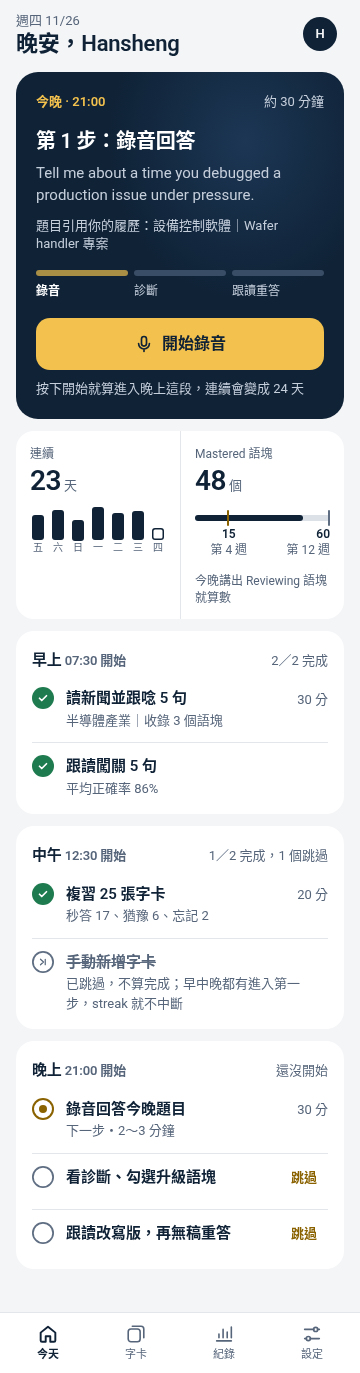
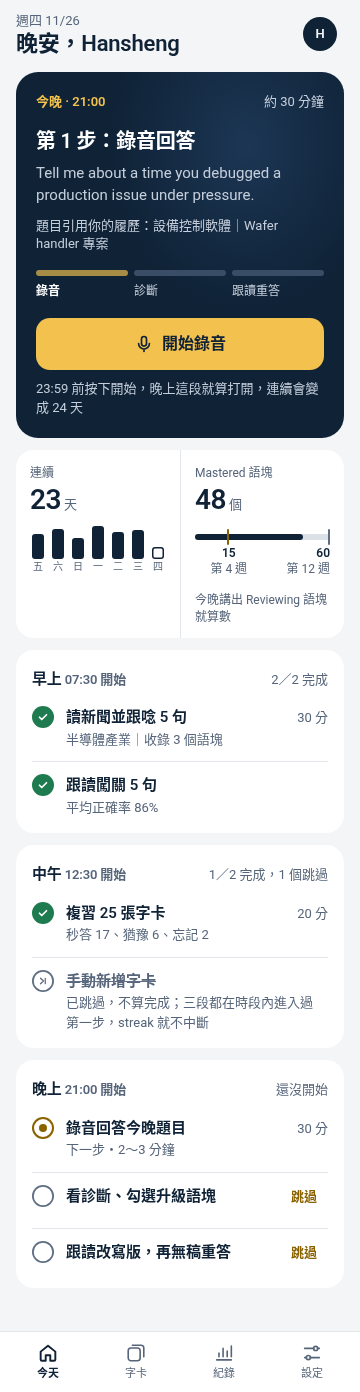
[Designer] D-003 D2 第 2 輪：streak 時段範圍依 PRD v1.4（PR #56）、Q-34 註明已寫回 AC-15

diff --git a/docs/design/prototype/screens/index.html b/docs/design/prototype/screens/index.html
@@ -50,13 +50,13 @@
     <p class="hero-cite t-callout">題目引用你的履歷：設備控制軟體｜Wafer handler 專案</p>
     <div class="segs" role="img" aria-label="晚上 3 步，正在第 1 步"><i class="cur"></i><i></i><i></i></div>
     <div class="seglab" aria-hidden="true"><span class="on">錄音</span><span>診斷</span><span>跟讀重答</span></div>
-    <div class="hero-act"><a class="btn btn-gold btn-lg" href="evening.html"><svg width="20" height="20" viewBox="0 0 24 24" fill="none" stroke="currentColor" stroke-width="2" stroke-linecap="round" stroke-linejoin="round" aria-hidden="true"><rect x="9" y="3" width="6" height="11.5" rx="3"/><path d="M5.5 11.5a6.5 6.5 0 0 0 13 0M12 18v3"/></svg>開始錄音<kbd>R</kbd></a><span class="t-callout sub">按下開始就算進入晚上這段，連續會變成 24 天</span></div>
+    <div class="hero-act"><a class="btn btn-gold btn-lg" href="evening.html"><svg width="20" height="20" viewBox="0 0 24 24" fill="none" stroke="currentColor" stroke-width="2" stroke-linecap="round" stroke-linejoin="round" aria-hidden="true"><rect x="9" y="3" width="6" height="11.5" rx="3"/><path d="M5.5 11.5a6.5 6.5 0 0 0 13 0M12 18v3"/></svg>開始錄音<kbd>R</kbd></a><span class="t-callout sub">23:59 前按下開始，晚上這段就算打開，連續會變成 24 天</span></div>
   </section>
   <section class="panel pair" aria-label="累積">
     <div class="stat"><p class="k">連續</p><p class="v">23<small>天</small></p><div class="spark" role="img" aria-label="近 7 天練習分鐘，今天進行中"><span style="--h:0.750" class=""><i></i><em>五</em></span><span style="--h:0.917" class=""><i></i><em>六</em></span><span style="--h:0.625" class=""><i></i><em>日</em></span><span style="--h:1.000" class=""><i></i><em>一</em></span><span style="--h:0.833" class=""><i></i><em>二</em></span><span style="--h:0.875" class=""><i></i><em>三</em></span><span style="--h:0.375" class="td"><i></i><em>四</em></span></div></div>
     <div class="stat"><p class="k">Mastered 語塊</p><p class="v">48<small>個</small></p><div class="m2" role="img" aria-label="Mastered 48 個；目標：第 4 週 15 個（已達成）、第 12 週 60 個（還差 12 個）"><div class="meter"><i style="width:80.0%"></i><b style="--at:.25" class="hit"></b><b style="--at:1" class=""></b></div><div class="m2-lab" aria-hidden="true"><span style="--at:.25"><b class="num">15</b>第 4 週</span><span style="--at:1"><b class="num">60</b>第 12 週</span></div></div><p class="t-caption muted msnote">今晚講出 Reviewing 語塊就算數</p></div>
   </section>
-  <div class="slots"><section class="panel flush slot" aria-labelledby="s-早上"><div class="slot-h"><h3 id="s-早上">早上<span class="t-callout muted num"> 07:30 開始</span></h3><span>2／2 完成</span></div><ul class="list"><li class="item"><span class="dot ok"><svg width="12" height="12" viewBox="0 0 24 24" fill="none" stroke="currentColor" stroke-width="3.4" stroke-linecap="round" stroke-linejoin="round" aria-hidden="true"><path d="M5 12.5l4.5 4.5L19 7.5"/></svg></span><div><span class="tt">讀新聞並跟唸 5 句</span><span class="meta">半導體產業｜收錄 3 個語塊</span></div><span class="end">30 分</span><a class="cover" href="news.html" aria-label="讀新聞並跟唸 5 句"></a></li><li class="item"><span class="dot ok"><svg width="12" height="12" viewBox="0 0 24 24" fill="none" stroke="currentColor" stroke-width="3.4" stroke-linecap="round" stroke-linejoin="round" aria-hidden="true"><path d="M5 12.5l4.5 4.5L19 7.5"/></svg></span><div><span class="tt">跟讀闖關 5 句</span><span class="meta">平均正確率 86%</span></div><span class="end"></span><a class="cover" href="shadow.html" aria-label="跟讀闖關 5 句"></a></li></ul></section><section class="panel flush slot" aria-labelledby="s-中午"><div class="slot-h"><h3 id="s-中午">中午<span class="t-callout muted num"> 12:30 開始</span></h3><span>1／2 完成，1 個跳過</span></div><ul class="list"><li class="item"><span class="dot ok"><svg width="12" height="12" viewBox="0 0 24 24" fill="none" stroke="currentColor" stroke-width="3.4" stroke-linecap="round" stroke-linejoin="round" aria-hidden="true"><path d="M5 12.5l4.5 4.5L19 7.5"/></svg></span><div><span class="tt">複習 25 張字卡</span><span class="meta">秒答 17、猶豫 6、忘記 2</span></div><span class="end">20 分</span><a class="cover" href="review.html" aria-label="複習 25 張字卡"></a></li><li class="item is-skip"><span class="dot skip"><svg width="12" height="12" viewBox="0 0 24 24" fill="none" stroke="currentColor" stroke-width="2.4" stroke-linecap="round" stroke-linejoin="round" aria-hidden="true"><path d="M7 6.5l6 5.5-6 5.5M16.5 6.5v11"/></svg></span><div><span class="tt">手動新增字卡</span><span class="meta">已跳過，不算完成；早中晚都有進入第一步，streak 就不中斷</span></div><span class="end"></span><a class="cover" href="#" aria-label="手動新增字卡"></a></li></ul></section><section class="panel flush slot" aria-labelledby="s-晚上"><div class="slot-h"><h3 id="s-晚上">晚上<span class="t-callout muted num"> 21:00 開始</span></h3><span>還沒開始</span></div><ul class="list"><li class="item"><span class="dot now"></span><div><span class="tt">錄音回答今晚題目</span><span class="meta">下一步・2～3 分鐘</span></div><span class="end">30 分</span><a class="cover" href="evening.html" aria-label="錄音回答今晚題目"></a></li><li class="item"><span class="dot todo"></span><div><span class="tt">看診斷、勾選升級語塊</span><span class="meta"></span></div><span class="end"><button class="skipbtn" type="button">跳過</button></span><a class="cover" href="diagnosis.html" aria-label="看診斷、勾選升級語塊"></a></li><li class="item"><span class="dot todo"></span><div><span class="tt">跟讀改寫版，再無稿重答</span><span class="meta"></span></div><span class="end"><button class="skipbtn" type="button">跳過</button></span><a class="cover" href="retell.html" aria-label="跟讀改寫版，再無稿重答"></a></li></ul></section></div>
+  <div class="slots"><section class="panel flush slot" aria-labelledby="s-早上"><div class="slot-h"><h3 id="s-早上">早上<span class="t-callout muted num"> 07:30 開始</span></h3><span>2／2 完成</span></div><ul class="list"><li class="item"><span class="dot ok"><svg width="12" height="12" viewBox="0 0 24 24" fill="none" stroke="currentColor" stroke-width="3.4" stroke-linecap="round" stroke-linejoin="round" aria-hidden="true"><path d="M5 12.5l4.5 4.5L19 7.5"/></svg></span><div><span class="tt">讀新聞並跟唸 5 句</span><span class="meta">半導體產業｜收錄 3 個語塊</span></div><span class="end">30 分</span><a class="cover" href="news.html" aria-label="讀新聞並跟唸 5 句"></a></li><li class="item"><span class="dot ok"><svg width="12" height="12" viewBox="0 0 24 24" fill="none" stroke="currentColor" stroke-width="3.4" stroke-linecap="round" stroke-linejoin="round" aria-hidden="true"><path d="M5 12.5l4.5 4.5L19 7.5"/></svg></span><div><span class="tt">跟讀闖關 5 句</span><span class="meta">平均正確率 86%</span></div><span class="end"></span><a class="cover" href="shadow.html" aria-label="跟讀闖關 5 句"></a></li></ul></section><section class="panel flush slot" aria-labelledby="s-中午"><div class="slot-h"><h3 id="s-中午">中午<span class="t-callout muted num"> 12:30 開始</span></h3><span>1／2 完成，1 個跳過</span></div><ul class="list"><li class="item"><span class="dot ok"><svg width="12" height="12" viewBox="0 0 24 24" fill="none" stroke="currentColor" stroke-width="3.4" stroke-linecap="round" stroke-linejoin="round" aria-hidden="true"><path d="M5 12.5l4.5 4.5L19 7.5"/></svg></span><div><span class="tt">複習 25 張字卡</span><span class="meta">秒答 17、猶豫 6、忘記 2</span></div><span class="end">20 分</span><a class="cover" href="review.html" aria-label="複習 25 張字卡"></a></li><li class="item is-skip"><span class="dot skip"><svg width="12" height="12" viewBox="0 0 24 24" fill="none" stroke="currentColor" stroke-width="2.4" stroke-linecap="round" stroke-linejoin="round" aria-hidden="true"><path d="M7 6.5l6 5.5-6 5.5M16.5 6.5v11"/></svg></span><div><span class="tt">手動新增字卡</span><span class="meta">已跳過，不算完成；三段都在時段內進入過第一步，streak 就不中斷</span></div><span class="end"></span><a class="cover" href="#" aria-label="手動新增字卡"></a></li></ul></section><section class="panel flush slot" aria-labelledby="s-晚上"><div class="slot-h"><h3 id="s-晚上">晚上<span class="t-callout muted num"> 21:00 開始</span></h3><span>還沒開始</span></div><ul class="list"><li class="item"><span class="dot now"></span><div><span class="tt">錄音回答今晚題目</span><span class="meta">下一步・2～3 分鐘</span></div><span class="end">30 分</span><a class="cover" href="evening.html" aria-label="錄音回答今晚題目"></a></li><li class="item"><span class="dot todo"></span><div><span class="tt">看診斷、勾選升級語塊</span><span class="meta"></span></div><span class="end"><button class="skipbtn" type="button">跳過</button></span><a class="cover" href="diagnosis.html" aria-label="看診斷、勾選升級語塊"></a></li><li class="item"><span class="dot todo"></span><div><span class="tt">跟讀改寫版，再無稿重答</span><span class="meta"></span></div><span class="end"><button class="skipbtn" type="button">跳過</button></span><a class="cover" href="retell.html" aria-label="跟讀改寫版，再無稿重答"></a></li></ul></section></div>
 </main>
 <nav class="tabbar" aria-label="主要導覽"><a href="index.html" aria-current="page"><svg width="22" height="22" viewBox="0 0 24 24" fill="none" stroke="currentColor" stroke-width="1.75" stroke-linecap="round" stroke-linejoin="round" aria-hidden="true"><path d="M4 10.5L12 4l8 6.5V19a1.5 1.5 0 0 1-1.5 1.5h-4v-6h-5v6h-4A1.5 1.5 0 0 1 4 19z"/></svg><span>今天</span></a><a href="later.html?s=cards"><svg width="22" height="22" viewBox="0 0 24 24" fill="none" stroke="currentColor" stroke-width="1.75" stroke-linecap="round" stroke-linejoin="round" aria-hidden="true"><rect x="3.5" y="6.5" width="13" height="14" rx="3"/><path d="M8 3.5h9.5a3 3 0 0 1 3 3V16"/></svg><span>字卡</span></a><a href="later.html?s=log"><svg width="22" height="22" viewBox="0 0 24 24" fill="none" stroke="currentColor" stroke-width="1.75" stroke-linecap="round" stroke-linejoin="round" aria-hidden="true"><path d="M4 19.5h16M6.5 16v-4M11 16V7M15.5 16v-6M20 16V4.5"/></svg><span>紀錄</span></a><a href="later.html?s=settings"><svg width="22" height="22" viewBox="0 0 24 24" fill="none" stroke="currentColor" stroke-width="1.75" stroke-linecap="round" stroke-linejoin="round" aria-hidden="true"><path d="M4 7h10M18 7h2M4 17h2M10 17h10"/><circle cx="16" cy="7" r="2.25"/><circle cx="8" cy="17" r="2.25"/></svg><span>設定</span></a></nav>
 <div class="sheet pop" id="account" role="dialog" aria-modal="true" aria-labelledby="acc-h">

diff --git a/docs/design/prototype/screens/result.html b/docs/design/prototype/screens/result.html
@@ -48,7 +48,7 @@
     <h2 id="fin-h" class="fin-t">連續 <span class="num gold-n">24</span> 天</h2>
     <div class="segs fin-segs" role="img" aria-label="早上、中午、晚上都已打開"><i class="done"></i><i class="done"></i><i class="done"></i></div>
     <div class="seglab" aria-hidden="true"><span class="on">早上</span><span class="on">中午</span><span class="on">晚上</span></div>
-    <p class="sub t-callout fin-sub">中午跳過的「手動新增」不算完成；早中晚都有進入第一步，所以 streak 不中斷。</p>
+    <p class="sub t-callout fin-sub">中午跳過的「手動新增」不算完成；早中晚都在時段內進入過第一步，所以 streak 不中斷。</p>
   </section>
   <section class="panel" aria-labelledby="rs-h">
     <div class="panel-h"><h3 id="rs-h">無稿重答：目標語塊</h3><span class="t-callout num"><b>2</b>／3 講出・<b class="gold">+20</b></span></div>

diff --git a/docs/design/DESIGN.md b/docs/design/DESIGN.md
@@ -99,10 +99,11 @@
 ## 8. 遊戲化鼓勵的呈現
 - 只用 PRD 功能：streak（連續天數，含 7 天長條）、Mastered 數＋M2 刻度（第 4 週 15、第 12 週 60；Hansheng 2026-11-26 19:48 決定，取代舊的單一目標刻度）、目標語塊講出與否（講出＝綠勾＋點數；沒講到＝空心 ✕＋「這次沒講到，下次再試」；不承諾哪天出現，到期日照 AC-09）、跟讀解鎖（「第 4 句解鎖了」）。
 - 樣式：數字大、文案短、語氣平實。里程碑 `.milestone`（金色細框＋ec-up 一次）只在 `system.html` 示範「跨過 M2 刻度時出現一次」，產品要不要做待 Hansheng 確認（§14）；不放彩帶、不放動畫角色、不放音效。
-- **streak 條件文案**（AC-26；Hansheng 19:48 定義「打開時段」＝在該時段內進入該時段的第一步）：
-  - 已跳過的步驟：「已跳過，不算完成；早中晚都有進入第一步，streak 就不中斷」。
-  - 首頁晚上還沒開始時，焦點卡：「按下開始就算進入晚上這段，連續會變成 24 天」（晚上這段顯示「還沒開始」，第一步標「下一步」）。
-  - 結果頁：「今天三段都打開了」（不用「完成」）＋「中午跳過的『手動新增』不算完成；早中晚都有進入第一步，所以 streak 不中斷。」
+- **streak 條件文案**（AC-26；Hansheng 19:48 決定；時段範圍依 PRD v1.4（PR #56，未合併））：
+  - 定義：「打開時段」＝在該時段內進入該段第一步；打開第一步畫面就算進入，之後跳過也算。時段範圍：早、中自開始時間到下一時段開始前；晚自開始時間到當天 23:59。
+  - 已跳過的步驟：「已跳過，不算完成；三段都在時段內進入過第一步，streak 就不中斷」。
+  - 首頁晚上還沒開始時，焦點卡：「23:59 前按下開始，晚上這段就算打開，連續會變成 24 天」（晚上這段顯示「還沒開始」，第一步標「下一步」）。
+  - 結果頁：「今天三段都打開了」（不用「完成」）＋「中午跳過的『手動新增』不算完成；早中晚都在時段內進入過第一步，所以 streak 不中斷。」
   - 「完成」只用在步驟與時段本身（例：早上 2／2 完成），「打開」只用在 streak 條件，兩者不混用。
 
 ## 9. 主題（深色模式）規格，對齊 ADR-014
@@ -150,7 +151,7 @@
 1. 原型 inline JS（§13）是否符合產品端寫法 → Architect。
 2. （已解決）主題偏好只存在這台裝置、不跨裝置同步（ADR-014，PR #53 合併）。
 3. Windows 字型呈現未真機驗證（§12）。
-4. 「在該時段內進入第一步」的時段邊界（例如晚上時段到幾點結束、跨午夜怎麼算）→ Architect 落實 streak 計算時定義；文案目前不寫時間邊界。
+4. 時段邊界照 PRD v1.4（PR #56，未合併）寫入文案；若 #56 內容改變，首頁焦點卡的「23:59 前」與 §8 需跟著改 → PM。
 5. 「跨過 M2 刻度（15、60）時出現一次」的里程碑提示要不要做（只在 `system.html` 示範，畫面上沒用）→ Hansheng。
 6. 「今天只有 N 張」頁的說明文案與組成（舊卡／新卡／種子庫剩餘）→ PM 確認。
 7. D2b 畫面（字卡清單／搜尋、紀錄、設定、錯誤與額度用完狀態）尚未設計。

diff --git a/docs/OPEN_QUESTIONS.md b/docs/OPEN_QUESTIONS.md
@@ -64,5 +64,5 @@
 ## Designer 記錄（2026-11-26，D-001 D0 設計簡報；不改 PRD）
 | 編號 | 狀態 | 提出者 | 問題 | 建議答案 | 影響 |
 |---|---|---|---|---|---|
-| Q-34 | 已決定（2026-11-26 15:23 Hansheng 於 D0 對話確認：手機用切換或上下分段、電腦版才左右雙欄）；**交 PM 依此更新 AC-15**（幕僚長轉達，Designer 不改 PRD） | Designer | AC-15 寫「左右對照表」，但 NFR-01 要求 360×640 無橫向捲動；360 寬並排兩欄長文（逐字稿＋Senior 版）幾乎無法閱讀。手機上用切換或上下分段是否仍算符合 AC-15？ | **建議**：AC 文字不改；解讀為「同一畫面可對照原文與 Senior 版」——≥ 1280 寬為左右雙欄（ARCHITECTURE §9），手機為「原文／Senior 版」切換或上下分段且句子對齊，3 種標記維持可區分（不只靠顏色）。QA 驗收照此解讀。**替代**：手機也維持左右兩欄（字級縮小、各欄內部可直向捲動）。 | AC-15、NFR-01、docs/design/BRIEF.md §6、D2 診斷畫面 |
+| Q-34 | 已決定（2026-11-26 15:23 Hansheng 於 D0 對話確認：手機用切換或上下分段、電腦版才左右雙欄）；**交 PM 依此更新 AC-15**（幕僚長轉達，Designer 不改 PRD）；已寫回 PRD AC-15（PR #52，16fe9af） | Designer | AC-15 寫「左右對照表」，但 NFR-01 要求 360×640 無橫向捲動；360 寬並排兩欄長文（逐字稿＋Senior 版）幾乎無法閱讀。手機上用切換或上下分段是否仍算符合 AC-15？ | **建議**：AC 文字不改；解讀為「同一畫面可對照原文與 Senior 版」——≥ 1280 寬為左右雙欄（ARCHITECTURE §9），手機為「原文／Senior 版」切換或上下分段且句子對齊，3 種標記維持可區分（不只靠顏色）。QA 驗收照此解讀。**替代**：手機也維持左右兩欄（字級縮小、各欄內部可直向捲動）。 | AC-15、NFR-01、docs/design/BRIEF.md §6、D2 診斷畫面 |
 | Q-35 | 已決定（2026-11-26 18:40 Hansheng 於 D1 選 R2-C，幕僚長轉達；D-003 結案為「不新增字型依賴」） | Designer | D1 原型有兩個方向用到非系統字型（round 1 的 A：Barlow Condensed、C：Literata）。選定方向後要不要新增字型依賴？ | **不新增字型依賴**。2026-11-26 18:40 Hansheng 選 R2-C 夜幕焦點，只用系統字堆疊；D2a `docs/design/tokens.json` 的 `font-sans` 為 `-apple-system, BlinkMacSystemFont, "SF Pro Text", Roboto, "Segoe UI", "Noto Sans TC", "Noto Sans CJK TC", "PingFang TC", "Microsoft JhengHei", sans-serif`（Segoe UI 為 U-5 建議，見 `docs/design/DESIGN.md` §12）。不打包字型檔、不用字型服務；省首屏載入與依賴（ADR-001）。 | ADR-001 依賴清單不變、ADR-014、D2 `DESIGN.md` §3／§12 |

diff --git a/docs/design/screens/home.md b/docs/design/screens/home.md
@@ -1,8 +1,8 @@
 # 首頁今日任務（`index.html`）｜AC-01、AC-21（streak、Mastered）、AC-26（跳過、streak 條件）
 - 頂部：日期＋「晚安，Hansheng」；右上頭像（主題切換入口）。
-- 焦點卡：目前時段的下一步（例：今晚 21:00「第 1 步：錄音回答」＋題目＋履歷引用）＋三段進度（錄音／診斷／跟讀重答）＋金色主按鈕「開始錄音」（電腦 `R`）＋「按下開始就算進入晚上這段，連續會變成 24 天」（Hansheng 19:48：打開時段＝在該時段內進入第一步）。
+- 焦點卡：目前時段的下一步（例：今晚 21:00「第 1 步：錄音回答」＋題目＋履歷引用）＋三段進度（錄音／診斷／跟讀重答）＋金色主按鈕「開始錄音」（電腦 `R`）＋「23:59 前按下開始，晚上這段就算打開，連續會變成 24 天」（Hansheng 19:48：打開時段＝在該時段內進入第一步；時段範圍依 PRD v1.4（PR #56，未合併）：早、中到下一時段開始前，晚到 23:59，打開第一步後跳過也算）。
 - 鼓勵：streak 23 天＋7 天長條（今天＝外框，進行中）；Mastered 48 個＋M2 刻度（量尺 0～60：15＝第 4 週已達成、刻線金色；60＝第 12 週）。
-- 三個時段面板（早 07:30、中 12:30、晚 21:00）：每步一列，狀態圖示（完成／下一步／未做／已跳過）；晚上這段尚未進入第一步，標「還沒開始」＋說明＋時間；未開始的步驟有「跳過」（≥48px）；跳過後顯示「已跳過，不算完成；早中晚都有進入第一步，streak 就不中斷」。
+- 三個時段面板（早 07:30、中 12:30、晚 21:00）：每步一列，狀態圖示（完成／下一步／未做／已跳過）；晚上這段尚未進入第一步，標「還沒開始」＋說明＋時間；未開始的步驟有「跳過」（≥48px）；跳過後顯示「已跳過，不算完成；三段都在時段內進入過第一步，streak 就不中斷」。
 - 手機：單欄，焦點卡 → 統計兩格 → 三個時段 → 底部分頁。
 - 電腦：焦點卡（主欄）＋統計 rail；三個時段並排三欄。
 - 截圖：`shots/index-*`。

diff --git a/docs/design/screens/evening.md b/docs/design/screens/evening.md
@@ -14,5 +14,5 @@
 ## 跟讀改寫版（`retell.html`）→ 無稿重答（`retell-cue.html`）→ 結果（`result.html`）
 - retell：TTS 播放 Senior 版全文（勾選的語塊粗底線）、再播一次、跟讀 3／3、「3 遍完成，可以切換到無稿提示模式」、「切換到無稿提示模式」（N）。
 - retell-cue：題目＋計時＋只顯示勾選的大字語塊（編號）＋停止鈕（Space）。
-- result（AC-18、AC-20、AC-26）：「今天三段都打開了」＋連續 24 天（大數字）＋三段；跳過說明「中午跳過的『手動新增』不算完成；早中晚都有進入第一步，所以 streak 不中斷。」；目標語塊 2／3 講出（圖示＋文字＋點數，沒講到＝「這次沒講到，下次再試」）；Mastered 面板 49 個（+1）＋M2 刻度＋「『dug into』講出來了，升到 Mastered。」；和首答比（停頓 4→1、贅詞 9→3、每分鐘字數 96→104）；模型標示；「回今天」。
+- result（AC-18、AC-20、AC-26）：「今天三段都打開了」＋連續 24 天（大數字）＋三段；跳過說明「中午跳過的『手動新增』不算完成；早中晚都在時段內進入過第一步，所以 streak 不中斷。」；目標語塊 2／3 講出（圖示＋文字＋點數，沒講到＝「這次沒講到，下次再試」）；Mastered 面板 49 個（+1）＋M2 刻度＋「『dug into』講出來了，升到 Mastered。」；和首答比（停頓 4→1、贅詞 9→3、每分鐘字數 96→104）；模型標示；「回今天」。
 - 截圖：`shots/evening-*`、`shots/evening-record-*`、`shots/diagnosis-*`、`shots/retell-*`、`shots/retell-cue-*`、`shots/result-*`。
